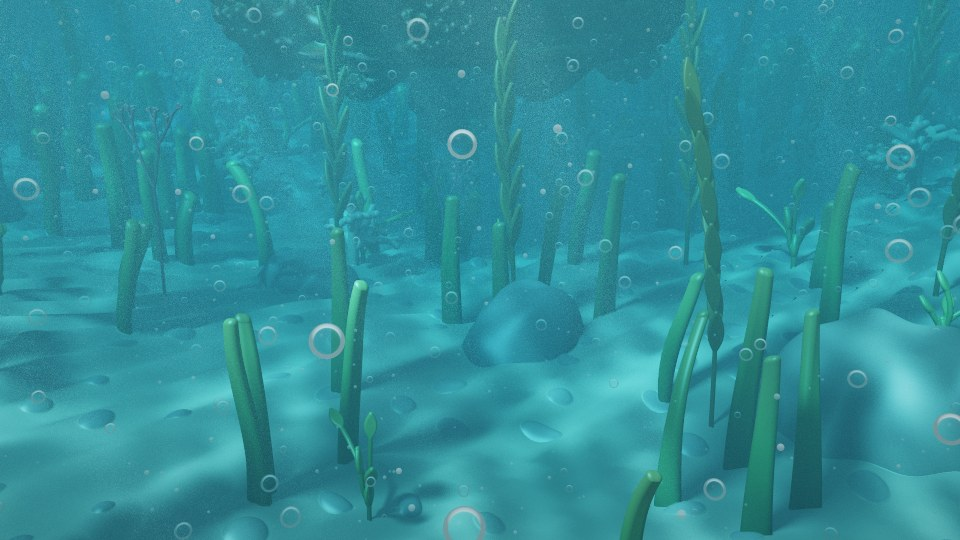
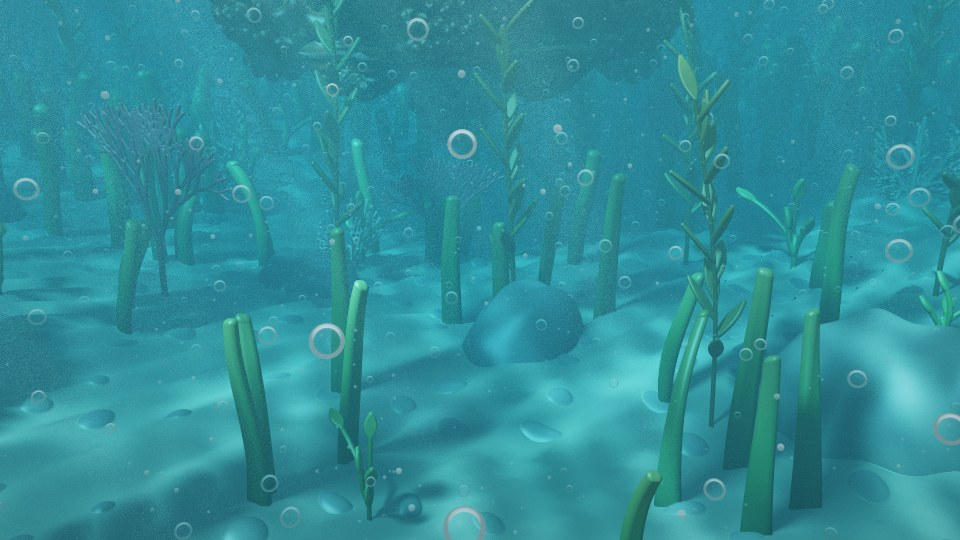
Plants: better kelp, sea fan and coral presets; leaf shapes in the editor preview
Kelp blades angle out around the stem, the sea fan grows a wide flat fan on a
short stalk, the staghorn coral branches thinner and upward. The editor preview
draws leaves as leaf shapes and shows the rule arrow in a font-safe way. Manual
pictures of the seabed plants and the editor.

diff --git a/crates/rmb-app/src/plants_editor.rs b/crates/rmb-app/src/plants_editor.rs
@@ -107,7 +107,7 @@ fn species_editor(ui: &mut Ui, p: &mut PlantSpecies, i: usize) {
             {
                 r.symbol = c;
             }
-            ui.label("→");
+            ui.label("->");
             ui.add(egui::TextEdit::singleline(&mut r.replacement).font(egui::TextStyle::Monospace).desired_width(ui.available_width() - 90.0)).on_hover_text(SYMBOLS);
             ui.add(egui::DragValue::new(&mut r.weight).speed(0.01).range(0.0..=100.0).max_decimals(2)).on_hover_text("Weight: how often this rule is picked among the rules of its symbol");
             if widgets::icon_button(ui, icons::X, "Remove this rule").clicked() {
@@ -162,9 +162,17 @@ fn preview(ui: &mut Ui, p: &PlantSpecies) {
         let h = ((g.a[2] + g.b[2]) * 0.5 / t.top as f32).clamp(0.0, 1.0);
         let pair = if g.leaf { p.leaf_colors } else { p.branch_colors };
         let c = col([0, 1, 2].map(|k| pair[0][k] + (pair[1][k] - pair[0][k]) * h));
-        let w_side = if g.leaf { (g.ra * scale_side).max(1.0) } else { (g.ra * 2.0 * scale_side).max(1.0) };
-        painter.line_segment([to_side(g.a), to_side(g.b)], egui::Stroke::new(w_side, c));
-        painter.line_segment([to_top(g.a), to_top(g.b)], egui::Stroke::new((g.ra * scale_top).max(1.0), c));
+        if g.leaf {
+            // A leaf: the diamond through its tips and its widest points (in the middle).
+            let mid = [0, 1, 2].map(|k| (g.a[k] + g.b[k]) * 0.5);
+            let (l, r) = ([0, 1, 2].map(|k| mid[k] + g.side[k] * g.ra), [0, 1, 2].map(|k| mid[k] - g.side[k] * g.ra));
+            for to in [&to_side as &dyn Fn([f32; 3]) -> egui::Pos2, &to_top] {
+                painter.add(egui::Shape::convex_polygon(vec![to(g.a), to(l), to(g.b), to(r)], c, egui::Stroke::new(0.5, c)));
+            }
+        } else {
+            painter.line_segment([to_side(g.a), to_side(g.b)], egui::Stroke::new((g.ra * 2.0 * scale_side).max(1.0), c));
+            painter.line_segment([to_top(g.a), to_top(g.b)], egui::Stroke::new((g.ra * 2.0 * scale_top).max(1.0), c));
+        }
     }
     painter.line_segment([egui::pos2(side.left(), side.bottom()), egui::pos2(side.right(), side.bottom())], egui::Stroke::new(1.0, Color32::from_gray(90)));
     let full = t.segs.len() >= MAX_SEGMENTS;

diff --git a/crates/rmb-core/src/plants.rs b/crates/rmb-core/src/plants.rs
@@ -116,27 +116,27 @@ const PRESETS: &[PresetRow] = &[
     (
         "Kelp",
         "FFFA",
-        &[('A', "F[&L]F[^L]A", 0.6), ('A', "F[/&L]F[\\^L]A", 0.4)],
-        6,
-        [18.0, 8.0, 0.8, 0.03, 0.8, 3.0, 0.22, 0.12, 0.0],
+        &[('A', "F[&&L]///F[^^L]///A", 0.6), ('A', "F[&&L]//F[&L]//A", 0.4)],
+        7,
+        [22.0, 8.0, 0.8, 0.03, 0.8, 3.0, 0.22, 0.1, 0.0],
         [0.9, 0.7, 0.45, 0.7, 0.8],
         [[0.25, 0.2, 0.06], [0.4, 0.33, 0.1], [0.3, 0.26, 0.06], [0.6, 0.5, 0.15]],
     ),
     (
         "Sea fan",
-        "A",
-        &[('A', "F[+A][-A]", 0.7), ('A', "F[+A]F[-A]", 0.3), ('F', "FF", 1.0)],
-        6,
-        [24.0, 6.0, 0.85, 0.05, 0.72, 0.0, 0.3, 0.02, 0.0],
+        "FA",
+        &[('A', "F[+A][-A]", 0.6), ('A', "F[+A]A", 0.2), ('A', "F[-A]A", 0.2)],
+        8,
+        [22.0, 8.0, 0.88, 0.06, 0.75, 0.0, 0.3, 0.04, 0.0],
         [0.5, 0.9, 0.3, 0.4, 0.15],
         [[0.45, 0.08, 0.12], [0.85, 0.3, 0.35], [0.85, 0.3, 0.35], [0.95, 0.5, 0.5]],
     ),
     (
         "Staghorn coral",
-        "[A]/////[A]/////[A]",
-        &[('A', "F[&+A][&-A]", 0.5), ('A', "F[^/A][&\\A]", 0.3), ('A', "FA", 0.2)],
+        "[&A]///[&A]///[&A]///[A]",
+        &[('A', "F[&+A]F[&-A]A", 0.5), ('A', "F[^/A]FA", 0.3), ('A', "FA", 0.2)],
         5,
-        [32.0, 10.0, 0.8, 0.22, 0.85, 0.0, 0.3, 0.06, 0.0],
+        [30.0, 10.0, 0.72, 0.1, 0.85, 0.0, 0.3, 0.1, 0.0],
         [0.35, 0.6, 0.4, 0.6, 0.0],
         [[0.75, 0.62, 0.45], [0.95, 0.85, 0.7], [0.95, 0.85, 0.7], [1.0, 0.95, 0.85]],
     ),

diff --git a/docs/manual/07-composition.md b/docs/manual/07-composition.md
@@ -321,6 +321,8 @@ tips in the rules:
 
 The bar `|` turns the turtle around.
 
+![The sea fan's L-system: start string, rules with weights, turtle settings and the preview from the side and from above](images/plants-editor.png){: .half}
+
 Several rules for the same symbol make a **stochastic** L-system: each time one of them is
 picked at random by its weight, so every generation branches a little differently. The
 preview under the settings shows the plant from the side and from above, with its number
